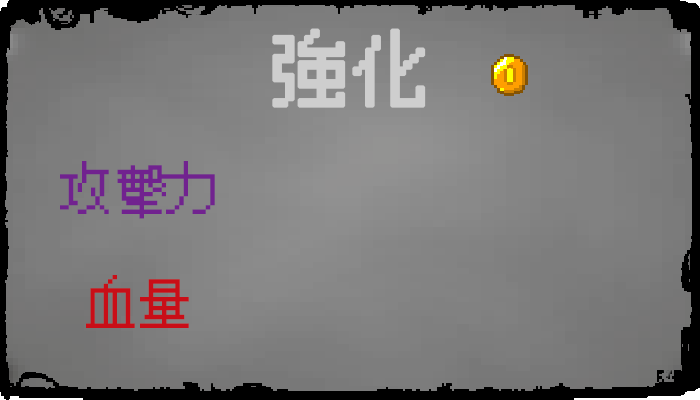
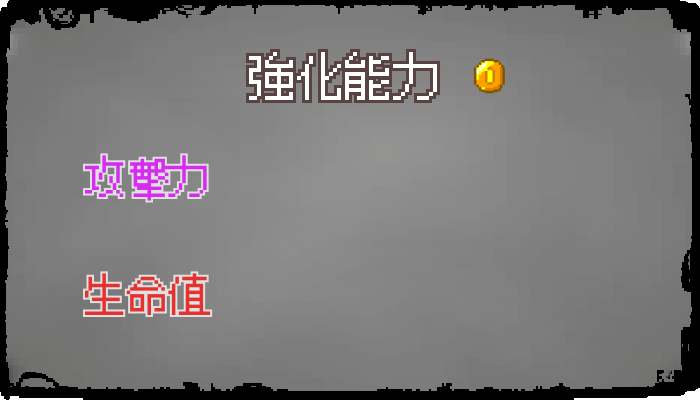
調整強化ui

diff --git a/bin/js/bundle.js b/bin/js/bundle.js
@@ -159,41 +159,41 @@
             }
             this.reinforceGold = new Laya.Text();
             this.reinforceGold.font = "silver";
-            this.reinforceGold.fontSize = 80;
+            this.reinforceGold.fontSize = 70;
             this.reinforceGold.color = "#FEFFF7";
             this.reinforceGold.stroke = 3;
             this.reinforceGold.strokeColor = "#000";
             this.reinforceGold.text = '$' + String(Village.gold);
-            this.reinforceGold.pos(333 + 550, 184 + 50);
+            this.reinforceGold.pos(333 + 520, 184 + 50);
             Laya.stage.addChild(this.reinforceGold);
         }
         setReinfoceAtkDmgLevel() {
             if (this.reinforceAtkDmgLevel) {
-                this.reinforceAtkDmgLevel.text = 'LV.' + String(Village.atkDmgLevel);
+                this.reinforceAtkDmgLevel.text = ': ' + String(Village.atkDmgLevel);
                 return;
             }
             this.reinforceAtkDmgLevel = new Laya.Text();
             this.reinforceAtkDmgLevel.font = "silver";
-            this.reinforceAtkDmgLevel.fontSize = 85;
+            this.reinforceAtkDmgLevel.fontSize = 70;
             this.reinforceAtkDmgLevel.color = "#FEFFF7";
             this.reinforceAtkDmgLevel.stroke = 3;
             this.reinforceAtkDmgLevel.strokeColor = "#000";
-            this.reinforceAtkDmgLevel.text = 'LV.' + String(Village.atkDmgLevel);
+            this.reinforceAtkDmgLevel.text = ': ' + String(Village.atkDmgLevel);
             this.reinforceAtkDmgLevel.pos(333 + 255, 184 + 160);
             Laya.stage.addChild(this.reinforceAtkDmgLevel);
         }
         setReinfoceHpLevel() {
             if (this.reinforceHpLevel) {
-                this.reinforceHpLevel.text = 'LV.' + String(Village.hpLevel);
+                this.reinforceHpLevel.text = ': ' + String(Village.hpLevel);
                 return;
             }
             this.reinforceHpLevel = new Laya.Text();
             this.reinforceHpLevel.font = "silver";
-            this.reinforceHpLevel.fontSize = 85;
+            this.reinforceHpLevel.fontSize = 70;
             this.reinforceHpLevel.color = "#FEFFF7";
             this.reinforceHpLevel.stroke = 3;
             this.reinforceHpLevel.strokeColor = "#000";
-            this.reinforceHpLevel.text = 'LV.' + String(Village.hpLevel);
+            this.reinforceHpLevel.text = ': ' + String(Village.hpLevel);
             this.reinforceHpLevel.pos(333 + 255, 184 + 275);
             Laya.stage.addChild(this.reinforceHpLevel);
         }
@@ -204,7 +204,7 @@
             }
             this.reinforceAtkDmgCost = new Laya.Text();
             this.reinforceAtkDmgCost.font = "silver";
-            this.reinforceAtkDmgCost.fontSize = 85;
+            this.reinforceAtkDmgCost.fontSize = 70;
             this.reinforceAtkDmgCost.color = "#fff";
             this.reinforceAtkDmgCost.stroke = 3;
             this.reinforceAtkDmgCost.strokeColor = "#000";
@@ -219,7 +219,7 @@
             }
             this.reinforceHpCost = new Laya.Text();
             this.reinforceHpCost.font = "silver";
-            this.reinforceHpCost.fontSize = 85;
+            this.reinforceHpCost.fontSize = 70;
             this.reinforceHpCost.color = "#fff";
             this.reinforceHpCost.stroke = 3;
             this.reinforceHpCost.strokeColor = "#000";
@@ -229,7 +229,7 @@
         }
         setReinforceAtkDmgCostIcon() {
             this.reinforceAtkDmgCostIcon = new Laya.Sprite();
-            this.reinforceAtkDmgCostIcon.pos(330 + 465, 184 + 160);
+            this.reinforceAtkDmgCostIcon.pos(330 + 465, 184 + 157);
             this.reinforceAtkDmgCostIcon.loadImage('ui/arrP.png');
             this.reinforceAtkDmgCostIcon.alpha = 0.75;
             this.reinforceAtkDmgCostIcon.on(Laya.Event.MOUSE_OVER, this, () => {
@@ -253,7 +253,7 @@
         }
         setReinforceHpCostIcon() {
             this.reinforceHpCostIcon = new Laya.Sprite();
-            this.reinforceHpCostIcon.pos(330 + 465, 184 + 275);
+            this.reinforceHpCostIcon.pos(330 + 465, 184 + 272);
             this.reinforceHpCostIcon.loadImage('ui/arrR.png');
             this.reinforceHpCostIcon.alpha = 0.75;
             Laya.stage.addChild(this.reinforceHpCostIcon);
@@ -2462,6 +2462,7 @@
                     this.updateAnimation(this.m_state, CharacterStatus.run, null, false, 100);
             }
             if (this.m_keyDownList[40]) {
+                new Village().showReinforceUI();
             }
             if (this.m_keyDownList[32]) {
             }

diff --git a/src/script/Village.ts b/src/script/Village.ts
@@ -144,41 +144,41 @@ export default class Village extends Laya.Script{
         }
         this.reinforceGold = new Laya.Text();
         this.reinforceGold.font = "silver";
-        this.reinforceGold.fontSize = 80;
+        this.reinforceGold.fontSize = 70;
         this.reinforceGold.color = "#FEFFF7";  
         this.reinforceGold.stroke = 3;
         this.reinforceGold.strokeColor = "#000";
         this.reinforceGold.text = '$'+String(Village.gold);
-        this.reinforceGold.pos(333+550, 184+50);
+        this.reinforceGold.pos(333+520, 184+50);
         Laya.stage.addChild(this.reinforceGold);
     }
     setReinfoceAtkDmgLevel(): void{
         if(this.reinforceAtkDmgLevel){
-            this.reinforceAtkDmgLevel.text = 'LV.' + String(Village.atkDmgLevel);
+            this.reinforceAtkDmgLevel.text = ': ' + String(Village.atkDmgLevel);
             return;
         }
         this.reinforceAtkDmgLevel = new Laya.Text();
         this.reinforceAtkDmgLevel.font = "silver";
-        this.reinforceAtkDmgLevel.fontSize = 85;
+        this.reinforceAtkDmgLevel.fontSize = 70;
         this.reinforceAtkDmgLevel.color = "#FEFFF7";
         this.reinforceAtkDmgLevel.stroke = 3;
         this.reinforceAtkDmgLevel.strokeColor = "#000";
-        this.reinforceAtkDmgLevel.text = 'LV.' + String(Village.atkDmgLevel);
+        this.reinforceAtkDmgLevel.text = ': ' + String(Village.atkDmgLevel);
         this.reinforceAtkDmgLevel.pos(333+255, 184+160);
         Laya.stage.addChild(this.reinforceAtkDmgLevel);
     }
     setReinfoceHpLevel(): void{
         if(this.reinforceHpLevel){
-            this.reinforceHpLevel.text = 'LV.' + String(Village.hpLevel);
+            this.reinforceHpLevel.text = ': ' + String(Village.hpLevel);
             return;
         }
         this.reinforceHpLevel = new Laya.Text();
         this.reinforceHpLevel.font = "silver";
-        this.reinforceHpLevel.fontSize = 85;
+        this.reinforceHpLevel.fontSize = 70;
         this.reinforceHpLevel.color = "#FEFFF7";
         this.reinforceHpLevel.stroke = 3;
         this.reinforceHpLevel.strokeColor = "#000";
-        this.reinforceHpLevel.text = 'LV.' + String(Village.hpLevel);
+        this.reinforceHpLevel.text = ': ' + String(Village.hpLevel);
         this.reinforceHpLevel.pos(333+255, 184+275);
         Laya.stage.addChild(this.reinforceHpLevel);
     }
@@ -189,7 +189,7 @@ export default class Village extends Laya.Script{
         }
         this.reinforceAtkDmgCost = new Laya.Text();
         this.reinforceAtkDmgCost.font = "silver";
-        this.reinforceAtkDmgCost.fontSize = 85;
+        this.reinforceAtkDmgCost.fontSize = 70;
         this.reinforceAtkDmgCost.color = "#fff";
         this.reinforceAtkDmgCost.stroke = 3;
         this.reinforceAtkDmgCost.strokeColor = "#000";
@@ -204,7 +204,7 @@ export default class Village extends Laya.Script{
         }
         this.reinforceHpCost = new Laya.Text();
         this.reinforceHpCost.font = "silver";
-        this.reinforceHpCost.fontSize = 85;
+        this.reinforceHpCost.fontSize = 70;
         this.reinforceHpCost.color = "#fff";
         this.reinforceHpCost.stroke = 3;
         this.reinforceHpCost.strokeColor = "#000";
@@ -214,7 +214,7 @@ export default class Village extends Laya.Script{
     }
     setReinforceAtkDmgCostIcon(): void{
         this.reinforceAtkDmgCostIcon = new Laya.Sprite();
-        this.reinforceAtkDmgCostIcon.pos(330+465, 184+160);
+        this.reinforceAtkDmgCostIcon.pos(330+465, 184+157);
         this.reinforceAtkDmgCostIcon.loadImage('ui/arrP.png');
         this.reinforceAtkDmgCostIcon.alpha = 0.75;
 
@@ -240,7 +240,7 @@ export default class Village extends Laya.Script{
     }
     setReinforceHpCostIcon(): void{
         this.reinforceHpCostIcon = new Laya.Sprite();
-        this.reinforceHpCostIcon.pos(330+465, 184+275);
+        this.reinforceHpCostIcon.pos(330+465, 184+272);
         this.reinforceHpCostIcon.loadImage('ui/arrR.png');
         this.reinforceHpCostIcon.alpha = 0.75;
         Laya.stage.addChild(this.reinforceHpCostIcon);

diff --git a/src/script/CharacterInit.ts b/src/script/CharacterInit.ts
@@ -420,14 +420,7 @@ export class Character extends Laya.Script {
             if (!this.m_animationChanging) this.updateAnimation(this.m_state, CharacterStatus.run, null, false, 100);
         }
         if (this.m_keyDownList[40]) {//Down
-            // this.m_humanSkill = new hSkill.Behead();
-            // this.m_catSkill = new cSkill.Slam();
-            // this.m_catSkill = new cSkill.BigExplosion();
-            // this.m_catSkill.cast(CharacterInit.playerEnt,
-            //     {
-            //         x: this.m_animation.x,
-            //         y: this.m_animation.y,
-            //     });
+            // new Village().showReinforceUI();
         }
         if (this.m_keyDownList[32]) {
             // let width_offset: number =
